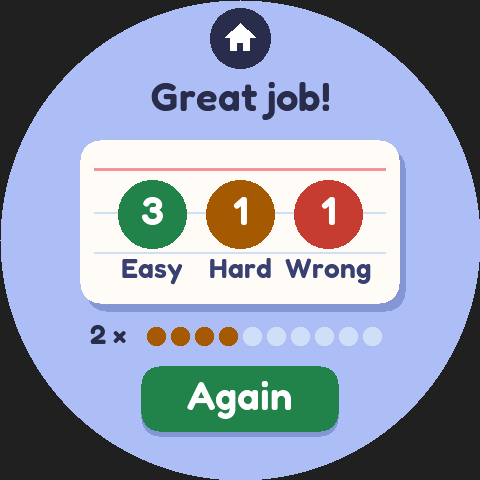
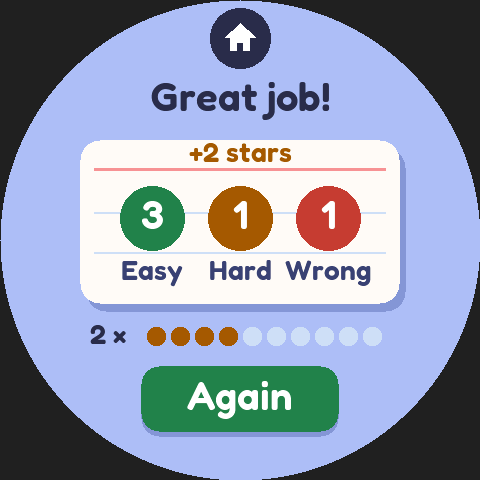
feat(times-cards): a finished round pays 2 of the kid's shared stars, whatever the grades

diff --git a/apps/porthole/games/times-cards/game.cpp b/apps/porthole/games/times-cards/game.cpp
@@ -7,6 +7,7 @@
 #include "generated/fonts.h"
 #include "launcher_icon.h"
 #include "palette.h"
+#include "stars.h"
 
 namespace cards {
 namespace {
@@ -62,7 +63,7 @@ const gfx::Sprite& Game::icon() const { return LAUNCHER_ICON; }
 void Game::enter(const AppEnter& e) {
   in_ = Input{};
   home_ = dirty_ = false;
-  ms_ = e.ms; now_ = e.nowSec;
+  ms_ = e.ms; now_ = e.nowSec; wallet_ = e.stars;
   save_ = Save{};
   bool loaded = false;
   for (int i = 0; i < e.n; i++)   // only this kid's deck; a bad one starts fresh
@@ -110,6 +111,7 @@ void Game::update(uint32_t nowSec, uint32_t ms, const Input& in) {
         if (ui::clicked(in_, GRADE[g])) {
           answer(round_, save_, (Grade)g, today());
           dirty_ = true;
+          if (round_.done()) stars::award(wallet_, ROUND_STARS);
           go(round_.done() ? P_DONE : P_ASK);
           break;
         }
@@ -151,13 +153,15 @@ void Game::draw() const {
                         : round_.wrong * 2 > round_.base ? "Nice try!" : "Great job!";
     centered(FONT40, title, 240, 100, INK);
     indexCard({80, 140, 400, 304});
+    snprintf(s, sizeof s, "+%u stars", (unsigned)ROUND_STARS);
+    centered(FONT28, s, 240, 154, GRADE_C[HARD]);   // above the margin line, like a card's heading
     const int counts[3] = {round_.easy, round_.hard, round_.wrong};
     for (int g = 0; g < 3; g++) {
       const int x = 152 + g * 88;
-      canvas::disc(x, 214, 34, GRADE_C[g]);
+      canvas::disc(x, 218, 32, GRADE_C[g]);
       snprintf(s, sizeof s, "%d", counts[g]);
-      centered(FONT40, s, x, 214, WHITE);
-      centered(FONT28, GRADE_WORD[g], x, 270, SOFT);
+      centered(FONT40, s, x, 218, WHITE);
+      centered(FONT28, GRADE_WORD[g], x, 272, SOFT);
     }
     snprintf(s, sizeof s, "%d \xC3\x97", save_.level);   // where the table stands now
     centered(FONT28, s, 108, 336, INK);
@@ -212,10 +216,11 @@ void Game::debugPrint() {
   const bool onCard = page_ == P_ASK || page_ == P_ANSWER;
   const int c = onCard ? round_.current() : 0;
   printf("[cards page=%s level=%d start=%d known=%d answers=%lu at=%d n=%d card=%dx%d box=%d due=%d easy=%d hard=%d "
-         "wrong=%d leveled=%d]\n",
+         "wrong=%d leveled=%d stars=%lu]\n",
          screenName(), save_.level, save_.start, known(save_, save_.level), (unsigned long)save_.answers, round_.at,
          round_.n, onCard ? tableOf(c) : 0, onCard ? factorOf(c) : 0, onCard ? save_.box[c] : 0,
-         onCard ? (int)save_.due[c] - today() : 0, round_.easy, round_.hard, round_.wrong, round_.leveledUp);
+         onCard ? (int)save_.due[c] - today() : 0, round_.easy, round_.hard, round_.wrong, round_.leveledUp,
+         (unsigned long)stars::balance(wallet_));
   printf("screen=%s\n", screenName());
 }
 

diff --git a/apps/porthole/host/test_times_cards.cpp b/apps/porthole/host/test_times_cards.cpp
@@ -173,6 +173,8 @@ static void pages() {
   Profile zoe = {1, "Zoe", 0, 8, 0};
   SaveSlot none = {nullptr, 0};
   AppEnter e = {&zoe, &zoe, &none, 1, NOW, ms, true};
+  uint32_t wallet = 7;
+  e.stars = &wallet;
   g.enter(e);
   settle(g);
   CHECK(on(g, "cards_home") && g.save().level == 4);   // an 8-year-old starts on 4x
@@ -189,6 +191,7 @@ static void pages() {
     settle(g);
   }
   CHECK(on(g, "cards_done") && g.save().answers == NEW_PER_ROUND);
+  CHECK(wallet == 7 + ROUND_STARS);   // a finished round pays the kid's shared stars
   CHECK(g.takeSave(&data, &len, true));
   Save saved; memcpy(&saved, data, sizeof saved);
   tapBox(g, 80, 133);   // Again

diff --git a/apps/porthole/games/times-cards/deck.h b/apps/porthole/games/times-cards/deck.h
@@ -37,6 +37,7 @@ constexpr uint8_t KNOWN_BOX = 5;         // the tables below where a kid starts:
 constexpr uint8_t MAX_BOX = 7;
 constexpr uint8_t INTERVAL[MAX_BOX + 1] = {0, 1, 2, 4, 7, 14, 30, 60};   // days until a card in box b is due again
 constexpr int MAX_QUEUE = ROUND + AGAIN_ROOM;
+constexpr uint32_t ROUND_STARS = 2;   // stars (os/stars.h) for every round finished, however it went: trying is the work
 
 // The table a kid starts on, from the age on their profile: 6 starts on 2x, 8 on 4x (lower tables count as known).
 inline int startTable(int age) { const int t = age - 4; return t < 1 ? 1 : t > 4 ? 4 : t; }

diff --git a/apps/porthole/games/times-cards/game.h b/apps/porthole/games/times-cards/game.h
@@ -40,6 +40,7 @@ class Game : public App {
   ui::FreshGate gate_;
   canvas::Frames<1> frames_;
   uint32_t ms_ = 0, now_ = 0;
+  uint32_t* wallet_ = nullptr;   // the kid's stars (AppEnter::stars), shared with every game
   bool home_ = false, dirty_ = false;
   int32_t today() const { return dayOf(now_); }
   void go(Page p);

diff --git a/apps/porthole/docs/times-cards/playtest.md b/apps/porthole/docs/times-cards/playtest.md
@@ -38,9 +38,9 @@ honest and repeat counts mean something) and a private working directory.
 
 ## Deferred, with the player impact
 
-- **Honest grading has no reward of its own** (run 3's Major). After the change above, Wrong costs one extra card,
-  shown as a second look rather than a longer round. A reward (for example Biscuit stars for finished rounds, which do
-  not depend on the grades) is the next step and is planned with the shared star balance.
+- **Honest grading** (run 3's Major): resolved after the runs. Wrong costs one extra card, shown as a second look,
+  and every finished round now pays 2 of the kid's shared stars whatever the grades, so pressing Easy earns nothing
+  extra. Not playtested yet.
 - **No "done for today"**: Again always deals; once everything due is done, a round is extra practice of the facts
   being learned, then of everything. A kid can stop at any round's end; nothing is lost by stopping.
 - **Leaving mid-round restarts the count** at "1 of n"; grades already given are kept.

diff --git a/apps/porthole/games/times-cards/AGENTS.md b/apps/porthole/games/times-cards/AGENTS.md
@@ -18,8 +18,12 @@ Every page has the house at the top: from a card it goes back to the deck, from 
 - `cards_ask`: "k of n" (or "One more try" on a missed card's second look) and the card, "a × b". The card sinks under a finger; a tap turns it.
 - `cards_answer`: "a × b =" small and the answer big, with **Easy**, **Hard** and **Wrong**.
 - `cards_done`: "Perfect round!" (no Hard or Wrong), "Great job!", or "Next up: N ×!" when the round opened a new
-  table; the round's three tallies and
+  table; "+2 stars", the round's three tallies, the table's dots and
   **Again**, which deals the next round.
+
+Every finished round pays `ROUND_STARS` (2) into the kid's shared stars (`os/stars.h`, `AppEnter::stars`, spent in
+Biscuit's doghouse), whatever the grades, so an honest Wrong costs nothing. A round left half-way pays none. The shell
+keeps and saves the balance; this game never stores it.
 
 No sound (`soundOn` is always false), no timer, nothing lost: a Wrong card only comes back sooner.
 

diff --git a/apps/porthole/README.md b/apps/porthole/README.md
@@ -85,8 +85,8 @@ Open **Times Cards** and tap **Go!**: a card shows a fact like **3 × 5**. Say t
 tap the card to turn it, then tap **Easy**, **Hard** or **Wrong**. Each kid has their own deck.
 Spaced repetition decides when each card comes back: a Wrong card returns a few cards later and
 tomorrow, an easy one waits longer each time. Once every fact of a table is known (Easy on two
-separate days), the next table opens. A 6-year-old starts on 2×, an 8-year-old on 4×. No timer, no
-sounds.
+separate days), the next table opens. A 6-year-old starts on 2×, an 8-year-old on 4×. Every finished
+round earns 2 stars, however it went, to spend in Biscuit's doghouse. No timer, no sounds.
 
 Design and state contract: [game brief](games/times-cards/AGENTS.md)
 
